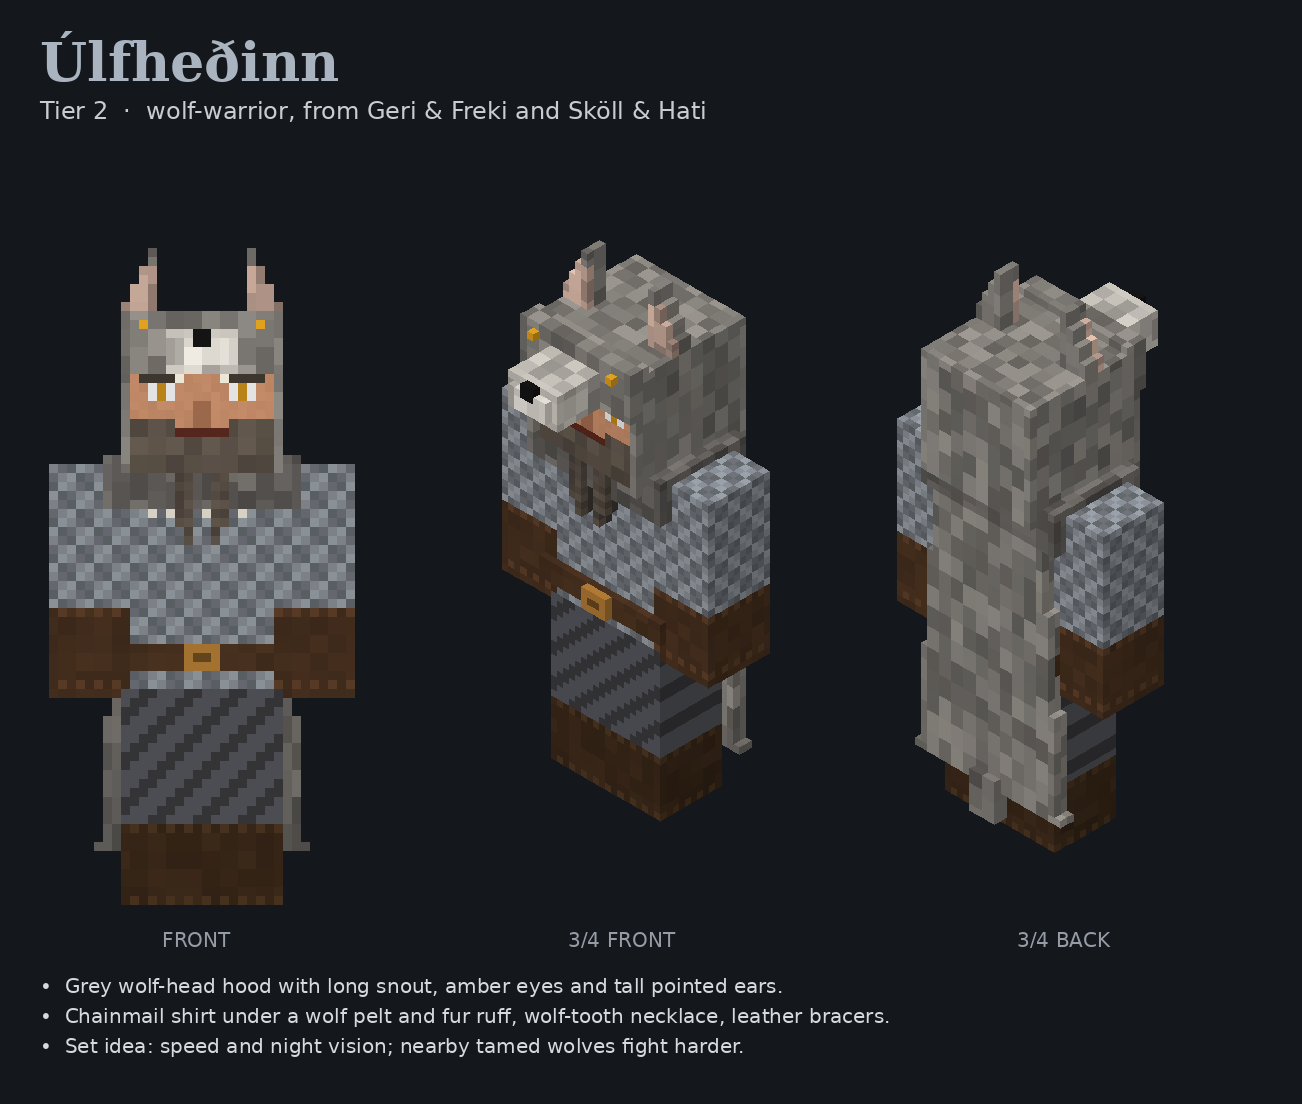
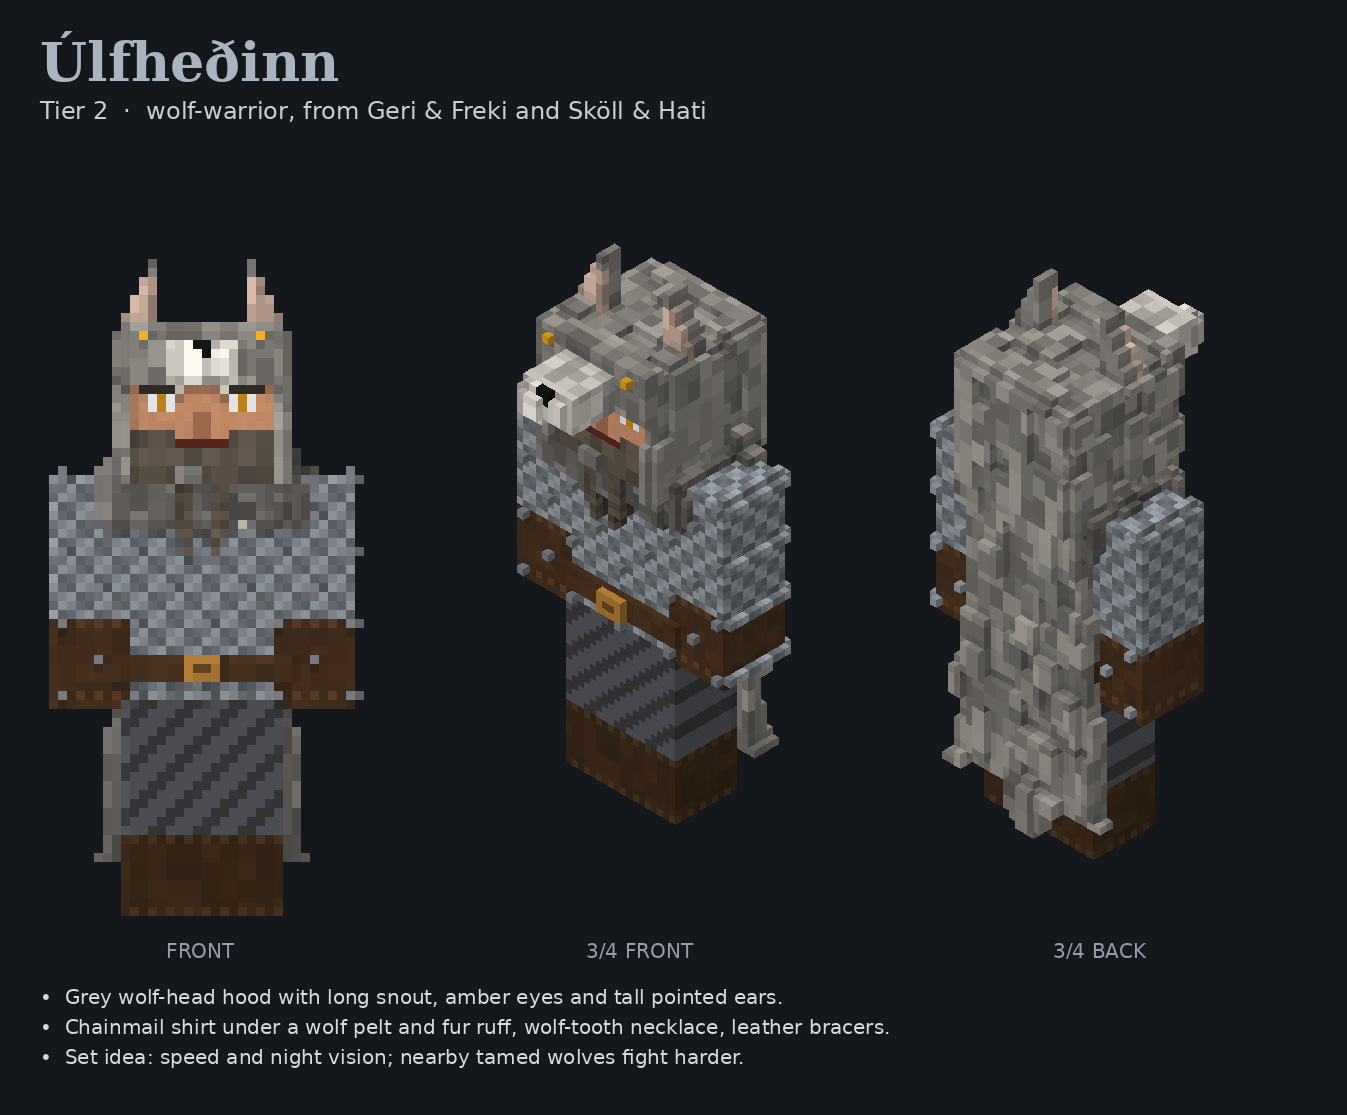
Concept art: real 3D relief (fur tufts, overlapping scales, raised trim, rivets, straps) and occlusion shading
Claude-Session: https://claude.ai/code/session_0125hFnq3iYK3BRfSe6nYMY4

diff --git a/tools/concept/viking_armor.py b/tools/concept/viking_armor.py
@@ -44,6 +44,12 @@ def mix(a, b, t):
 class Model:
     def __init__(self):
         self.v = {}
+        self.pending = []        # relief voxels, added after each box so they never block the box itself
+
+    def flush(self):
+        for q, c in self.pending:
+            self.v.setdefault(q, c)
+        self.pending = []
 
     def box(self, x0, x1, y0, y1, z0, z1, paint, shell_only=False, keep=None):
         for x in range(x0, x1):
@@ -57,11 +63,32 @@ class Model:
                     c = paint(x, y, z) if callable(paint) else paint
                     if c is None:
                         self.v.pop((x, y, z), None)
-                    else:
-                        self.v[(x, y, z)] = c
+                        continue
+                    self.v[(x, y, z)] = c
+                    relief = getattr(paint, "relief", None)
+                    if relief and edge:
+                        r = relief(x, y, z)
+                        if r <= 0:
+                            continue
+                        normals = []
+                        if x == x0: normals.append((-1, 0, 0))
+                        if x == x1 - 1: normals.append((1, 0, 0))
+                        if y == y0: normals.append((0, -1, 0))
+                        if y == y1 - 1: normals.append((0, 1, 0))
+                        if z == z0: normals.append((0, 0, -1))
+                        if z == z1 - 1: normals.append((0, 0, 1))
+                        for nx, ny, nz in normals:
+                            for k in range(1, r + 1):
+                                q = (x + nx * k, y + ny * k, z + nz * k)
+                                if q not in self.v:
+                                    self.pending.append((q, mul(c, 1.0 + 0.06 * k)))
 
     def put(self, x, y, z, c):
         self.v[(x, y, z)] = c
+
+    def _box_and_flush(self, *a, **k):
+        Model._raw_box(self, *a, **k)
+        self.flush()
 
     def clear(self, x0, x1, y0, y1, z0, z1):
         for x in range(x0, x1):
@@ -76,15 +103,33 @@ class Model:
             self.v[(-1 - x, y, z)] = c
 
 
+Model._raw_box = Model.box
+Model.box = Model._box_and_flush
+
+
+def flat(paint):
+    """The same material without raised detail (for small shapes like snouts)."""
+    return lambda x, y, z: paint(x, y, z)
+
+
+def with_relief(paint, fn):
+    paint.relief = fn
+    return paint
+
+
 # ------------------------------------------------------------------ materials (texel = 2 voxels)
-def fur(base, dark=0.72, light=1.12):
+def fur(base, dark=0.72, light=1.12, tuft=2):
     base = hexc(base) if isinstance(base, str) else base
 
     def p(x, y, z):
         t = h(x // 2, z // 2, (y + int(4 * h(x // 2, z // 2))) // 3)
         f = dark + (light - dark) * t
         return mul(base, f)
-    return p
+
+    def r(x, y, z):                      # fur tufts: clumps standing 1-2 voxels proud
+        t = h(x // 3, y // 4, z // 3, 7)
+        return min(tuft, 2 if t > 0.82 else (1 if t > 0.42 else 0))
+    return with_relief(p, r)
 
 
 def mail(base="#8f959c"):
@@ -95,7 +140,7 @@ def mail(base="#8f959c"):
         ring = (x + y + z) % 2 == 0
         f = (1.08 if a else 0.78) * (1.0 if ring else 0.9)
         return mul(base, f)
-    return p
+    return with_relief(p, lambda x, y, z: 1 if (x % 4 == 0 and y % 4 == 0 and (x // 4 + y // 4) % 2 == 0) else 0)
 
 
 def scales(base, edge=None):
@@ -114,7 +159,7 @@ def scales(base, edge=None):
         if v == 3:
             return mul(base, 1.28)
         return mul(base, 1.0 + 0.12 * (h(x // 4, row, z // 4) - 0.5))
-    return p
+    return with_relief(p, lambda x, y, z: 1 if y % 4 == 3 else 0)     # each row's lip overlaps the one below
 
 
 def plate(base, rivet=None, every=6):
@@ -125,7 +170,7 @@ def plate(base, rivet=None, every=6):
         if (x % every == 2) and (y % every == 2):
             return rivet
         return mul(base, 0.95 + 0.12 * h(x // 3, y // 3, z // 3))
-    return p
+    return with_relief(p, lambda x, y, z: 1 if (x % every == 2 and y % every == 2) else 0)
 
 
 def cloth(base, stripe=None):
@@ -166,6 +211,9 @@ SKIN_DARK = hexc("#a46e50")
 def gold(x, y, z):
     t = h(x // 2, y // 2, z // 2)
     return GOLD_HI if t > 0.82 else (GOLD_LO if t < 0.15 else GOLD)
+
+
+gold.relief = lambda x, y, z: 1          # gold trim stands proud of the armor
 
 
 # ------------------------------------------------------------------ base player
@@ -241,6 +289,10 @@ def cape(m, paint, y0, y1, x0=-9, x1=9, flare=True):
         for x in range(x0 - w, x1 + w):
             for z in (-6, -7):
                 m.put(x, y, z, paint(x, y, z))
+            r = getattr(paint, "relief", None)
+            if r:
+                for k in range(1, r(x, y, -7) + 1):
+                    m.put(x, y, -7 - k, mul(paint(x, y, -7), 1.0 + 0.06 * k))
 
 
 def belt(m, y0, y1, paint, buckle=None):
@@ -290,9 +342,9 @@ def berserker():
     for x in list(range(-7, -2)) + list(range(2, 7)):
         m.put(x, 59, 7, hexc("#2a4f8a"))
     # bear hood: fur helmet, open face
-    helmet_shell(m, bear, face_open_below=60)
-    m.box(-9, 9, 59, 66, 7, 11, bear)                       # brow / forehead overhang
-    m.box(-5, 5, 58, 64, 11, 17, bear_light)                # snout
+    helmet_shell(m, fur("#5b3a22", tuft=1), face_open_below=60)
+    m.box(-9, 9, 59, 66, 7, 11, flat(bear))                 # brow / forehead overhang
+    m.box(-5, 5, 58, 64, 11, 17, flat(bear_light))          # snout
     m.box(-4, 4, 59, 62, 16, 18, fur("#9a7450"))            # muzzle
     m.box(-2, 2, 61, 63, 17, 18, solid("#161616"))          # nose
     for x in (-4, 3):                                       # fangs
@@ -301,8 +353,8 @@ def berserker():
     for x in (-7, 6):                                       # bear eyes
         m.put(x, 63, 11, (20, 16, 14))
         m.put(x, 64, 11, (20, 16, 14))
-    m.box(-9, -5, 65, 69, -1, 3, bear)                      # ears
-    m.box(5, 9, 65, 69, -1, 3, bear)
+    m.box(-9, -5, 65, 69, -1, 3, flat(bear))                # ears
+    m.box(5, 9, 65, 69, -1, 3, flat(bear))
     m.box(-8, -6, 66, 68, 3, 4, fur("#3a2414"))
     m.box(6, 8, 66, 68, 3, 4, fur("#3a2414"))
     # pelt down the back + paws over the shoulders
@@ -322,7 +374,7 @@ def berserker():
     m.box(-9, 9, 23, 49, -5, 5, lambda x, y, z: mul(SKIN, 0.95 + 0.08 * h(x, y, z)), shell_only=True)
     for y in range(24, 49):
         for x in range(-9, 9):
-            for z in (4, -5):
+            for z in (5, -6):
                 d1 = abs((x + 0.5) - (y - 36) * 0.6)
                 d2 = abs((x + 0.5) + (y - 36) * 0.6)
                 if d1 < 1.4 or d2 < 1.4:
@@ -348,9 +400,9 @@ def ulfhednar():
     base_player(m, beard="#5c5248", hair="#5c5248", eyes="#c48a1a")
     wolf = fur("#8e8a84")
     wolf_light = fur("#c9c4bc")
-    helmet_shell(m, wolf, face_open_below=60)
-    m.box(-9, 9, 59, 66, 7, 10, wolf)
-    m.box(-4, 4, 59, 64, 10, 17, wolf_light)                 # long narrow snout
+    helmet_shell(m, fur("#8e8a84", tuft=1), face_open_below=60)
+    m.box(-9, 9, 59, 66, 7, 10, flat(wolf))
+    m.box(-4, 4, 59, 64, 10, 17, flat(wolf_light))           # long narrow snout
     m.box(-3, 3, 60, 63, 16, 18, fur("#d8d3cb"))
     m.box(-1, 1, 62, 64, 17, 18, solid("#141414"))
     for x in (-3, 2):
@@ -540,14 +592,18 @@ def render_iso(model, back=False, s=7):
         c = vox[(x, y, z)]
         faces = []
         if (x, y + 1, z) not in vox:
-            faces.append(([(x, y + 1, z), (x + 1, y + 1, z), (x + 1, y + 1, z + 1), (x, y + 1, z + 1)], TOP))
+            faces.append(([(x, y + 1, z), (x + 1, y + 1, z), (x + 1, y + 1, z + 1), (x, y + 1, z + 1)], TOP,
+                          [(x - 1, y + 1, z), (x + 1, y + 1, z), (x, y + 1, z - 1), (x, y + 1, z + 1), (x, y + 2, z)]))
         if (x, y, z + 1) not in vox:
-            faces.append(([(x, y, z + 1), (x + 1, y, z + 1), (x + 1, y + 1, z + 1), (x, y + 1, z + 1)], LEFT))
+            faces.append(([(x, y, z + 1), (x + 1, y, z + 1), (x + 1, y + 1, z + 1), (x, y + 1, z + 1)], LEFT,
+                          [(x - 1, y, z + 1), (x + 1, y, z + 1), (x, y + 1, z + 1), (x, y + 1, z + 1), (x, y - 1, z + 1)]))
         if (x + 1, y, z) not in vox:
-            faces.append(([(x + 1, y, z), (x + 1, y + 1, z), (x + 1, y + 1, z + 1), (x + 1, y, z + 1)], RIGHT))
-        for pts, f in faces:
+            faces.append(([(x + 1, y, z), (x + 1, y + 1, z), (x + 1, y + 1, z + 1), (x + 1, y, z + 1)], RIGHT,
+                          [(x + 1, y + 1, z), (x + 1, y + 1, z), (x + 1, y - 1, z), (x + 1, y, z - 1), (x + 1, y, z + 1)]))
+        for pts, f, ao in faces:
+            occ = sum(1 for q in ao if q in vox)        # ambient occlusion: darker in nooks and under ledges
             poly = [(u - minu, v - minv) for u, v in (P(*p) for p in pts)]
-            d.polygon(poly, fill=mul(c, f) + (255,))
+            d.polygon(poly, fill=mul(c, f * (1.0 - 0.075 * occ)) + (255,))
     return img
 
 
@@ -568,6 +624,14 @@ def render_front(model, back=False, s=9):
     d = ImageDraw.Draw(img)
     for (X, y), (depth, c) in best.items():
         shade = 0.82 + 0.018 * max(-6, min(10, depth))      # nearer = brighter
+        up = best.get((X, y + 1))
+        left = best.get((X - 1, y))
+        if up and up[0] > depth:
+            shade *= 0.78 if up[0] - depth > 1 else 0.86       # shadow under a ledge
+        elif left and left[0] > depth:
+            shade *= 0.88
+        elif (up is None or up[0] < depth) or (left is None or left[0] < depth):
+            shade *= 1.1                                        # lit raised edge
         px, py = (X - x0 + 1) * s, (y1 - y + 1) * s
         d.rectangle([px, py, px + s - 1, py + s - 1], fill=mul(c, shade) + (255,))
     return img
